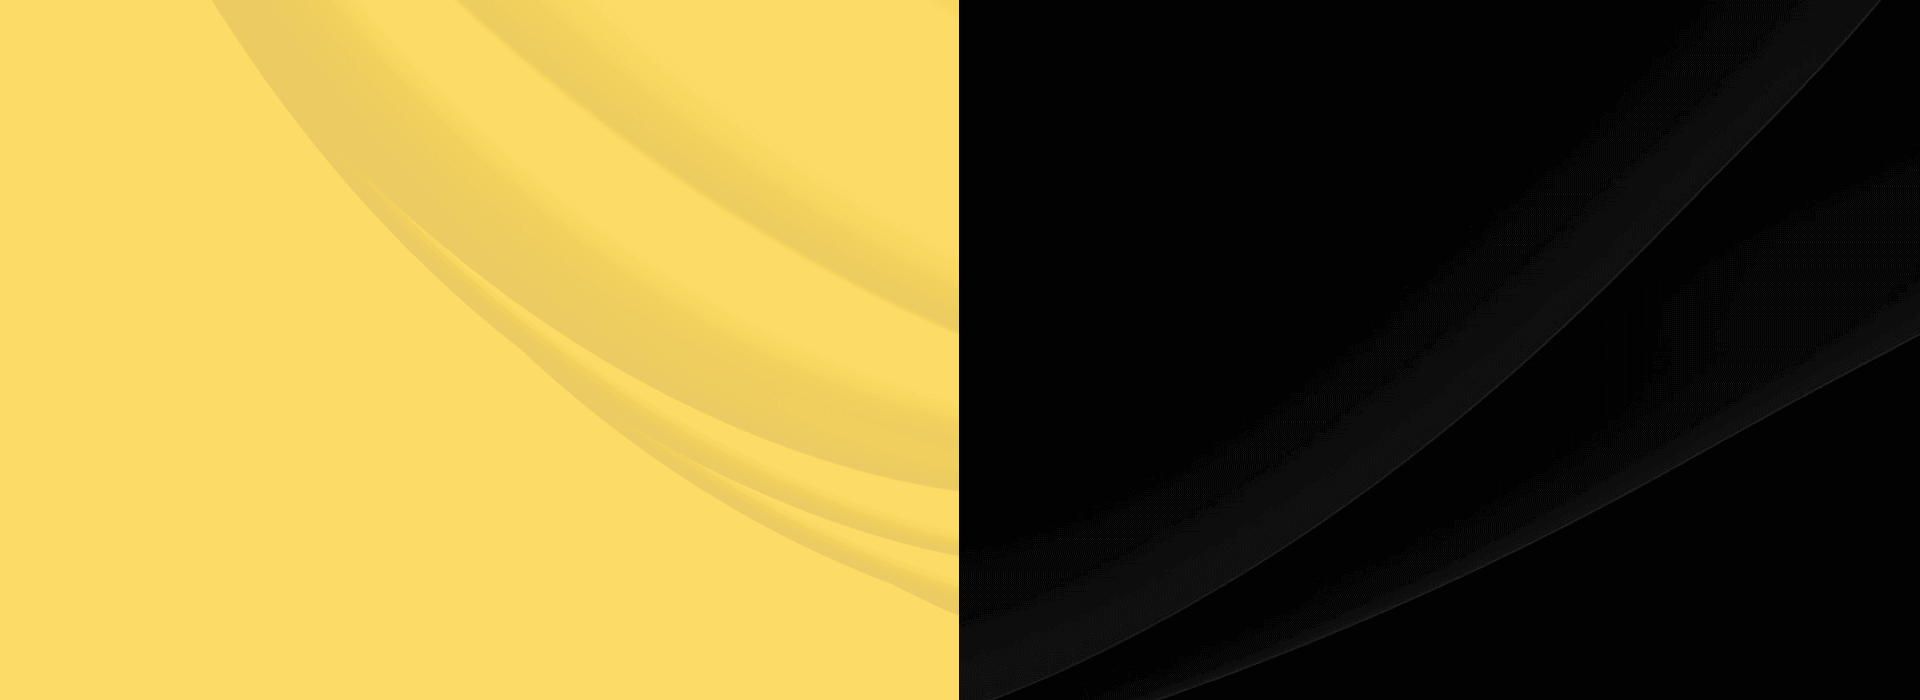
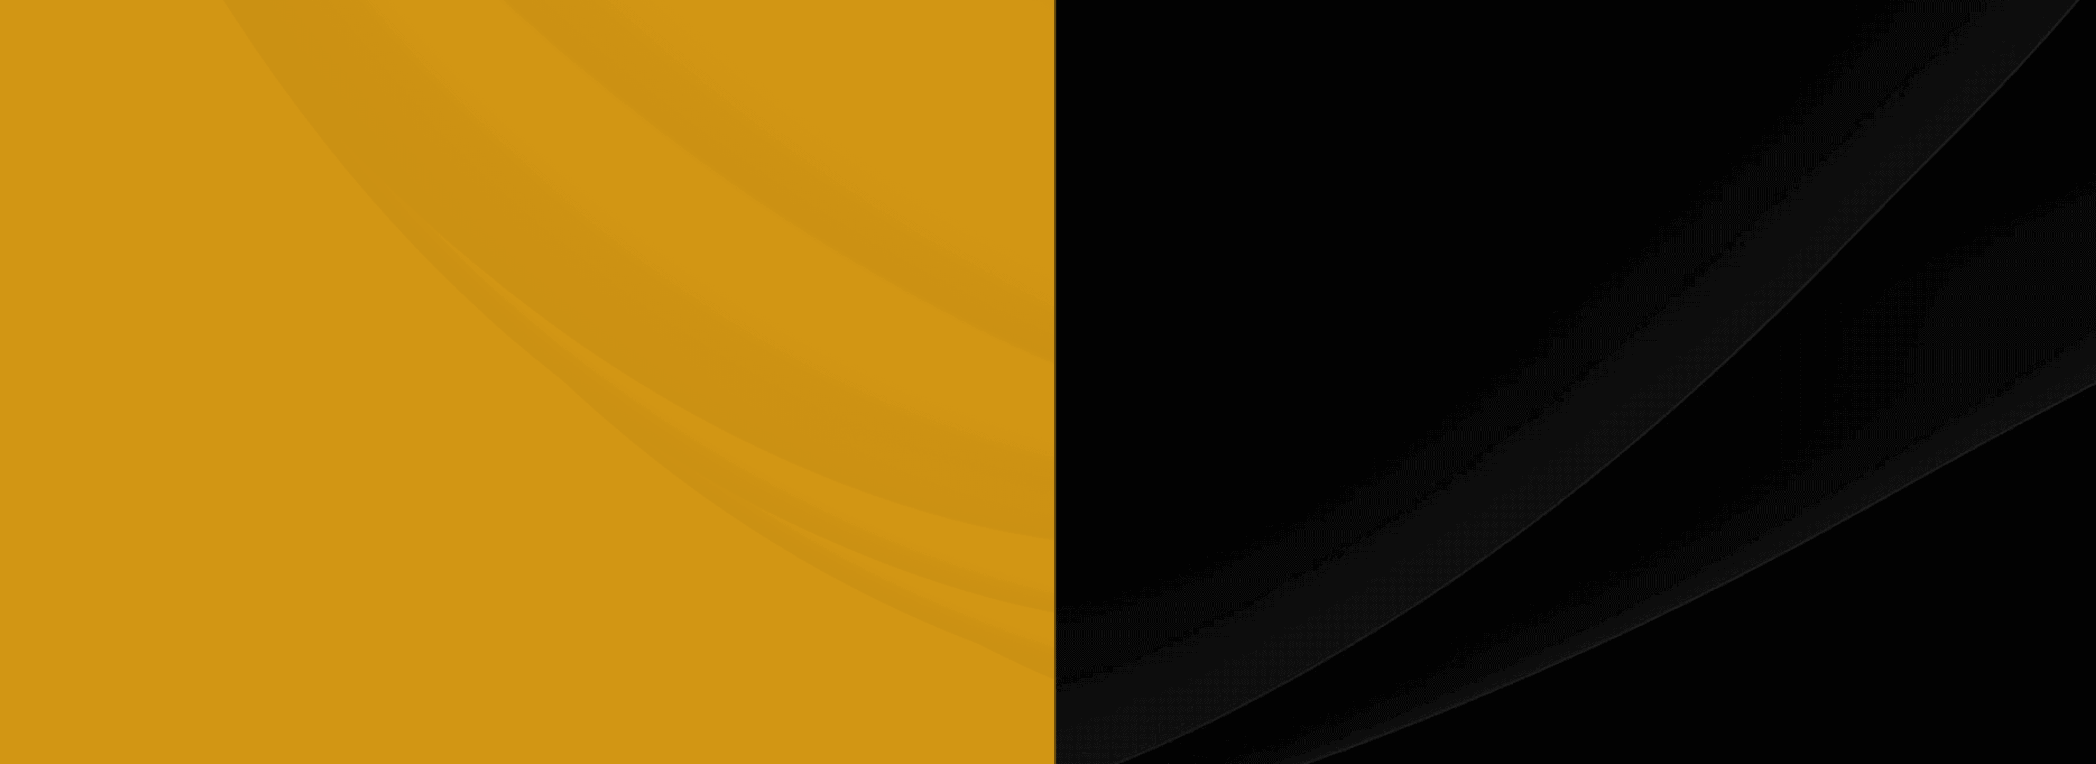
img

diff --git a/report.html b/report.html
@@ -271,7 +271,7 @@
                   <p class="contact-desc">Access 59 pages of research and data on the global Black diaspora media landscape. Produced by Békwu Insights.</p>
                   <div class="contact-info">
                     <p>For Inquiries, Contact Our Intelligence Partner.</p>
-                    <a href="mailto:info@bekwuconsults.com" class="branded-yellow-link">info@bekwuconsults.com</a>
+                    <a href="mailto:info@bekwuconsults.com" class="branded-black-link">info@bekwuconsults.com</a>
                   </div>
                   <div class="shape bounce-animate"><img src="images/main-home/dance-sp.png" alt=""></div>
                 </div>

diff --git a/marketplace.html b/marketplace.html
@@ -102,7 +102,7 @@
         </header>
 
         <!-- Page Title -->
-        <section class="page-title" style="background-image: url(images/marketplace.jpg);">
+        <section class="page-title" style="background-image: url(images/marketplace.png);">
             <div class="auto-container">
                 <div class="title-outer text-center">
                     <h1 class="title">The Marketplace</h1>
